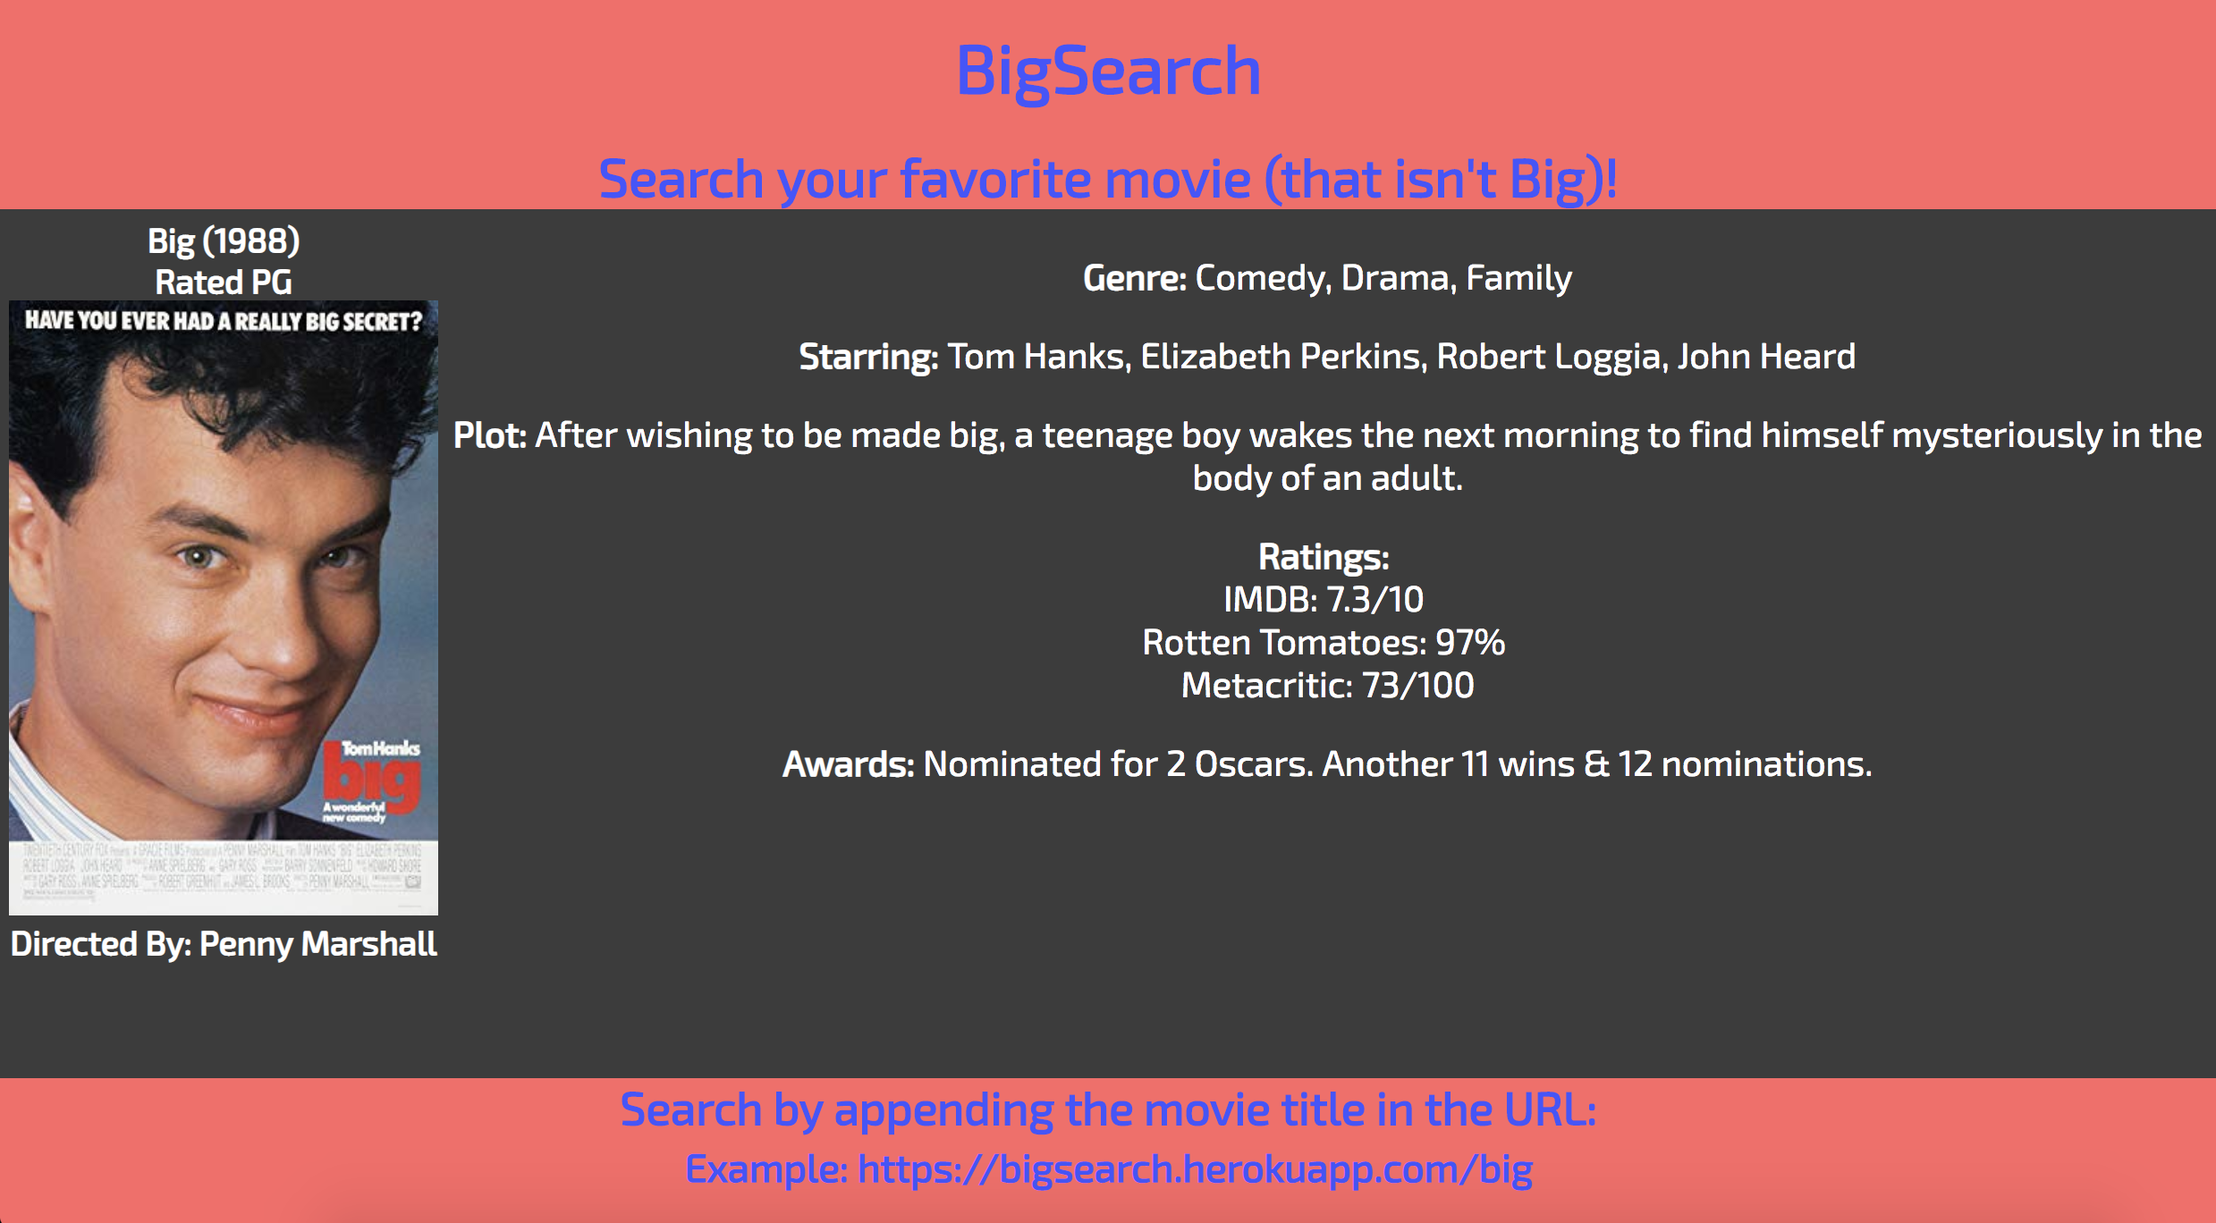
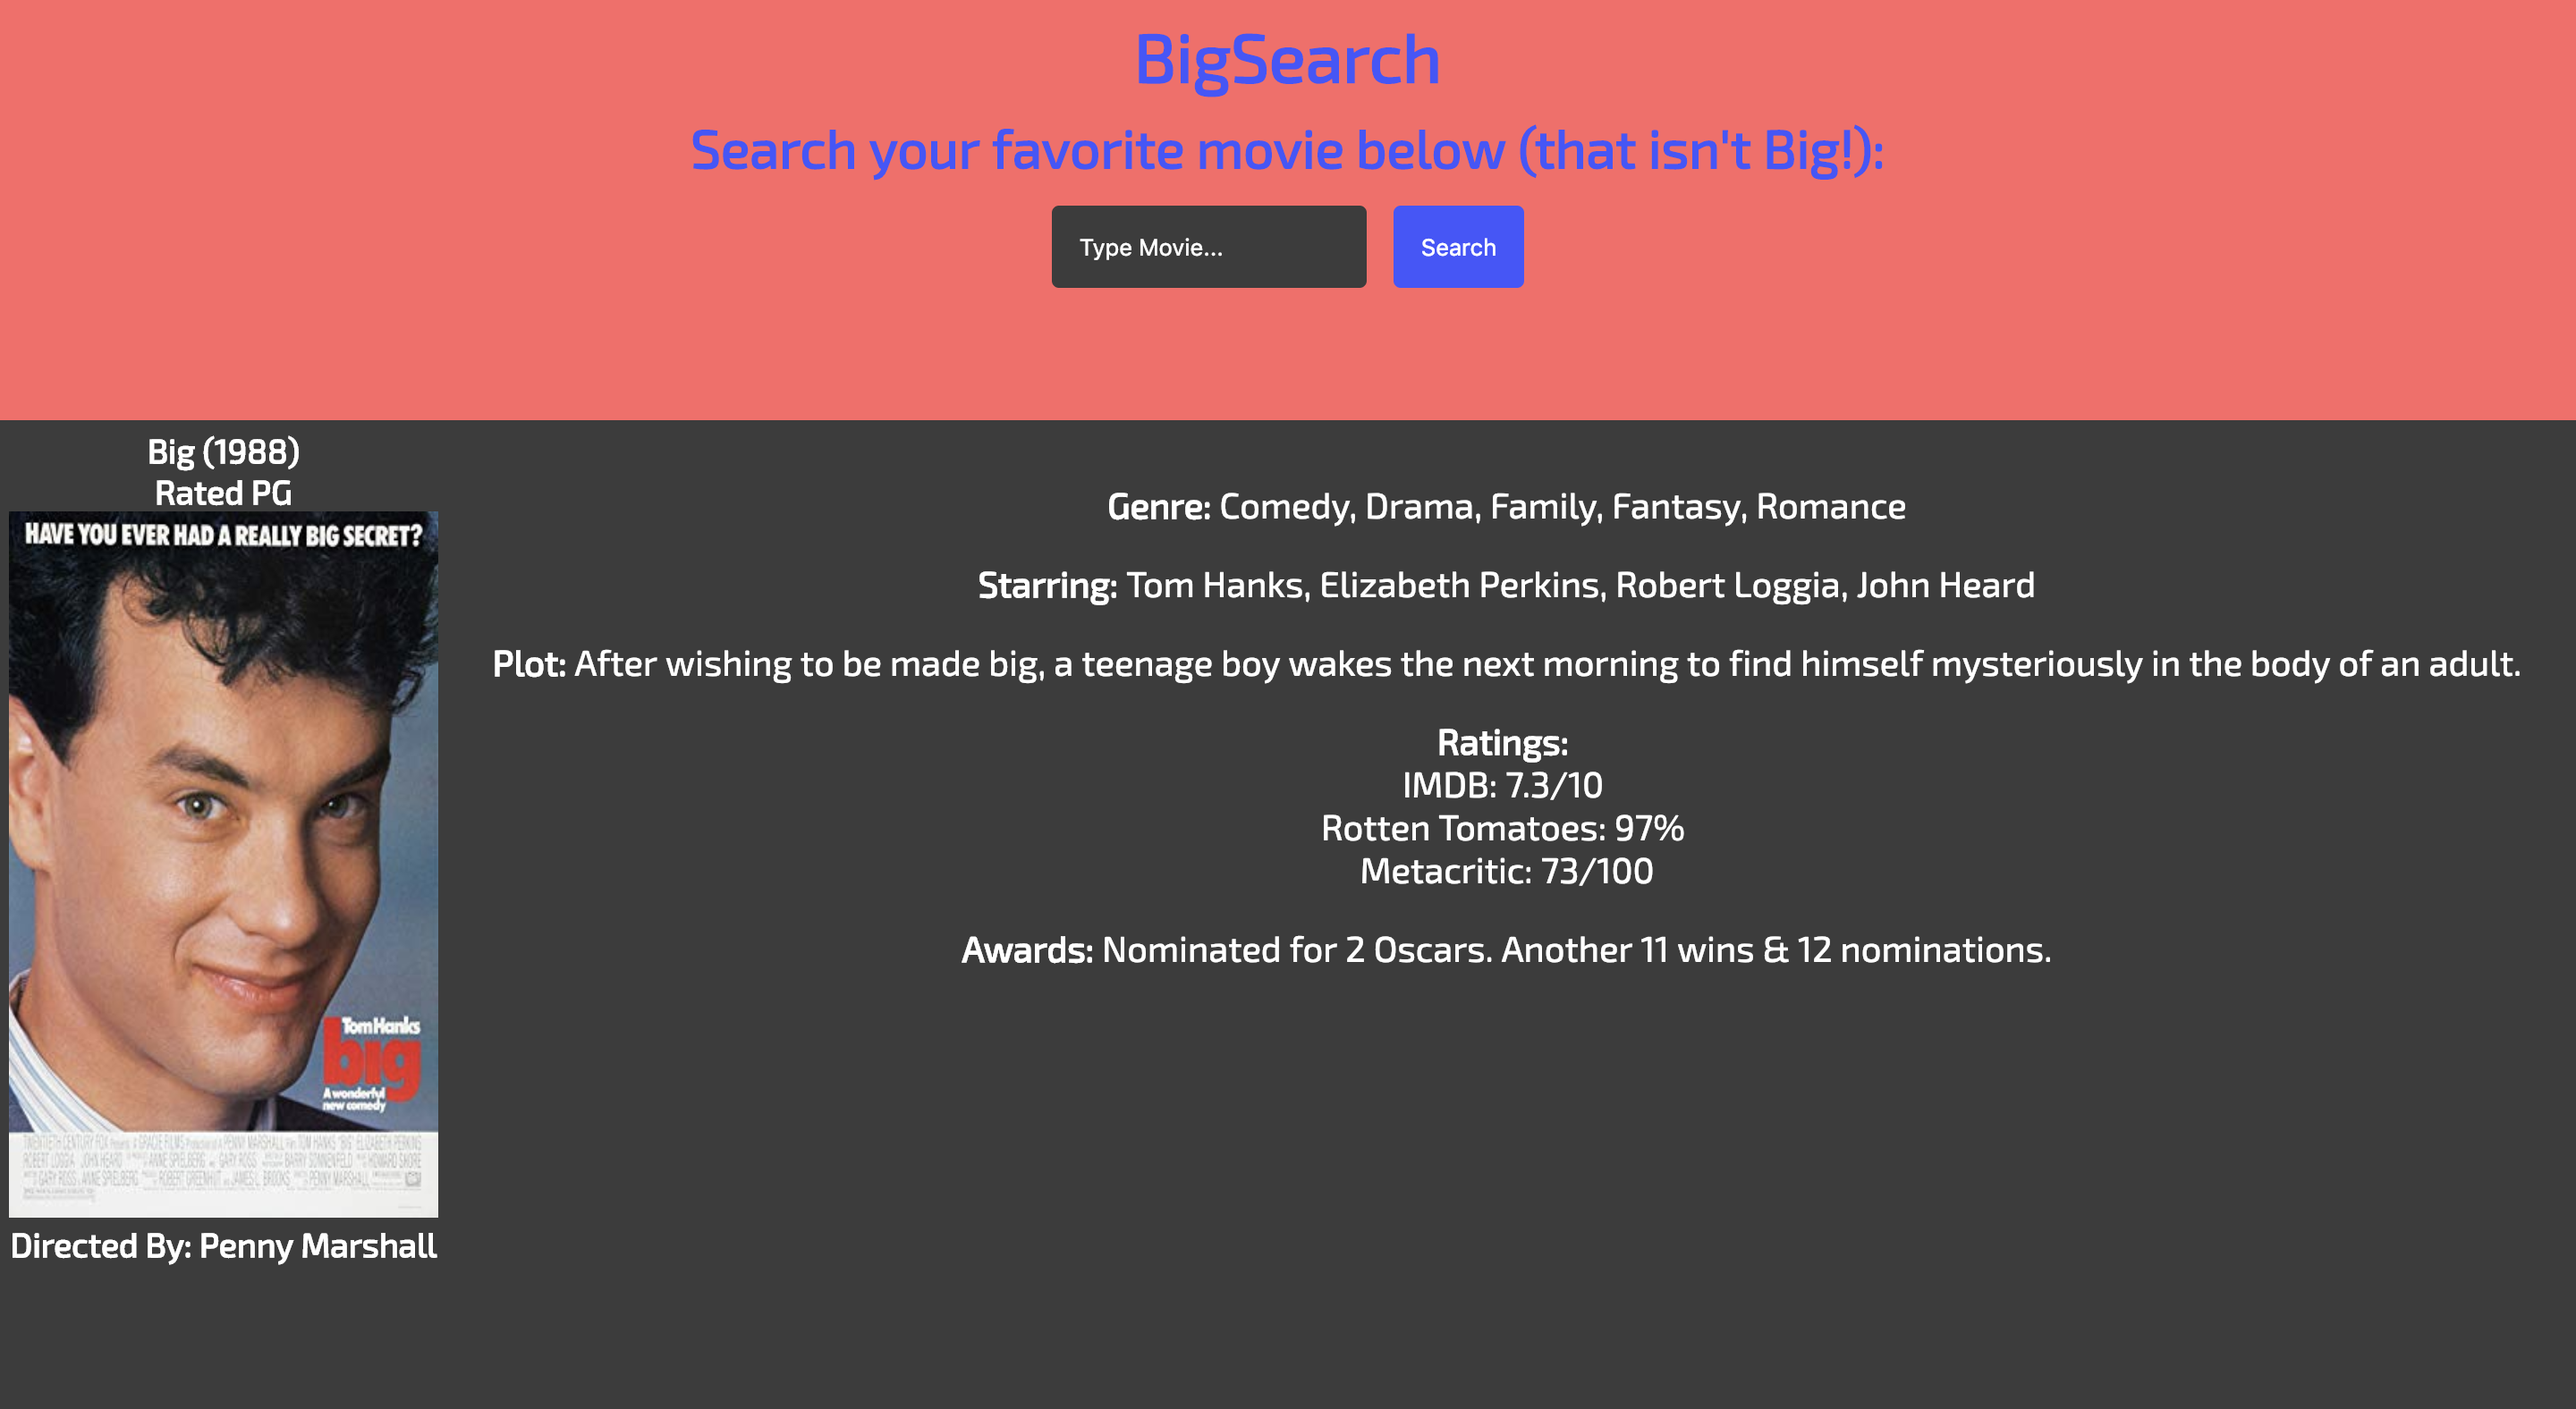
update bigsearch description, screenshot

diff --git a/index.html b/index.html
@@ -211,7 +211,7 @@
 			
 			<h4 data-aos="zoom-in-left" class="project-title">BigSearch</h4> 
 			<p data-aos="fade-in" data-aos-duration="1600">
-				An application inspired by the movie Big that interacts with the Open Movie Database (OMDB) REST API to return data about any movie, similar to the website, IMDB. Built using React and React Router. To use the app, simply type the name of any movie into the browser URL (e.g., <a href="https://bigsearch.herokuapp.com/big" target="_blank">https://bigsearch.herokuapp.com/big</a>).
+				An application inspired by the movie Big that interacts with the Open Movie Database (OMDB) REST API to return data about any movie, similar to the website, IMDB. Built using React and React Router, hosted on Heroku. To use the app, simply type the name of any movie into the input field.
 			</p> 
 
 			<!-- BIGSEARCH TAGLINE -->

diff --git a/scss/style.scss b/scss/style.scss
@@ -136,9 +136,9 @@ hr.line-break {
 .spaceclones-cursor:hover{
   cursor: url(../images/cursors/space-clones-cursor.png), pointer;
 }
-.bigsearch-cursor:hover {
-  cursor: url(../images/cursors/bigsearch-cursor.png), pointer;
-}
+// .bigsearch-cursor:hover {
+//   cursor: url(../images/cursors/bigsearch-cursor.png), pointer;
+// }
 .inline-link {
   cursor: pointer !important;
 }

diff --git a/css/style.css b/css/style.css
@@ -108,9 +108,6 @@ hr.line-break {
 .spaceclones-cursor:hover {
   cursor: url(../images/cursors/space-clones-cursor.png), pointer; }
 
-.bigsearch-cursor:hover {
-  cursor: url(../images/cursors/bigsearch-cursor.png), pointer; }
-
 .inline-link {
   cursor: pointer !important; }
 
